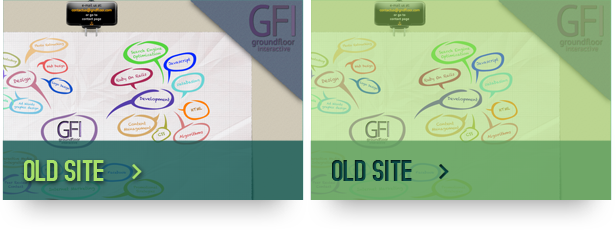
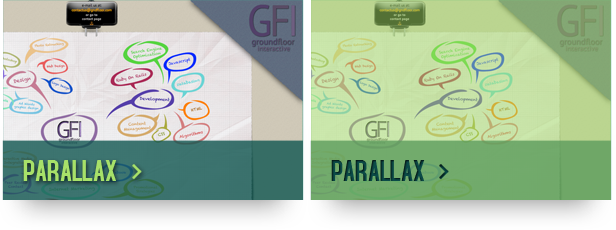
location back button

Changed region(s): [[0.5244, 0.6696, 0.7094, 0.7913], [0.0308, 0.6696, 0.2159, 0.7913]]

diff --git a/app/assets/stylesheets/index.sass b/app/assets/stylesheets/index.sass
@@ -8,6 +8,16 @@
         height: 500px
 
     #info
+        h2
+            color: #61E191
+
+            font:
+                size: 53px
+        h3
+            font:
+                size: 36px
+            color: #a7e169
+            
         padding:
             bottom: 10px
         overflow: auto
@@ -27,6 +37,11 @@
                 background-position: image-width($path)/2
 
         #recentWorks
+            h2
+                color: #61E191
+
+                font:
+                    size: 53px
             margin:
                 top: 50px
 
@@ -35,6 +50,7 @@
                 margin:
                     top: 30px
                     left: 22px
+            
 
                 //The images
                 div
@@ -82,6 +98,7 @@
             padding:
                 left: 10px
                 right: 10px
+            text-decoration: none
 
             height: 320px
             //background:
@@ -119,7 +136,11 @@
                     
                     
             #serviceHead
-                h1
+                h2
+                    color: #61E191
+
+                    font:
+                        size: 53px
                     float: left
                     line-height: 70px
                     padding:
@@ -130,9 +151,10 @@
                 height: 100px
                     
             #serviceLink
-                h3
+                h4
                     padding: 10px
                     color: #b5e169
+                    text-decoration: none
                     
                 float: right
                 width: 18%
@@ -142,12 +164,19 @@
                 background: 
                     color: #29bdb5
                 cursor: pointer
+                text-decoration: none
+                
+                a
+                    text-decoration: none
 
                 &:hover
-                    h3
+                    h4
                         color: #29bdb5
                         
                     background:
                         color: #b5e169
+                    text-decoration: none
+                    
+                
                     
                     

diff --git a/app/assets/stylesheets/services.sass b/app/assets/stylesheets/services.sass
@@ -1,0 +1,104 @@
+#servicePage
+    h2
+        line-height: 35px
+    margin:
+        top: 50px
+        
+
+
+
+#ourServices
+    margin:
+        top: 30px
+        bottom: 30px
+
+    //All the block descriptions next to each other
+    #desc
+        h1
+            line-height: 70px
+            padding:
+                top: 10px
+                left: 10px
+        width: 980px
+
+        margin:
+            top: 30px
+            left: auto
+            right: auto
+
+        padding:
+            left: 10px
+            right: 10px
+
+        height: 320px
+        //background:
+            //color: #373738
+
+        #block
+            background: image-url('gfi/blockrightborder.png')
+
+            width: 205px
+            float: left
+            padding:
+                left: 20px
+                right: 20px
+
+            p
+                margin-top: 20px
+
+            h2
+                line-height: 20px
+                margin-top: 20px
+
+        #blockTwo
+            width: 205px
+            float: left
+            padding:
+                left: 20px
+                right: 20px
+
+            p
+                margin-top: 20px
+
+            h2
+                line-height: 20px
+                margin-top: 20px
+
+
+        #serviceHead
+            h2
+                color: #61E191
+
+                font:
+                    size: 53px
+                float: left
+                line-height: 70px
+                padding:
+                    top: 20px
+                    left: 25px
+                font-size: 57px
+
+            height: 100px
+
+        #serviceLink
+            h4
+                padding: 10px
+                color: #b5e169
+
+            float: right
+            width: 18%
+            margin: 
+                top: 20px
+                right: 15px
+            background: 
+                color: #29bdb5
+            cursor: pointer
+
+            &:hover
+                h4
+                    color: #29bdb5
+
+                background:
+                    color: #b5e169
+
+

diff --git a/app/assets/stylesheets/test.scss b/app/assets/stylesheets/test.scss
@@ -24,6 +24,42 @@
 	margin-right: auto;
 }
 
+#backToLink {
+    h3 {
+        color: #a7e169;
+        text-decoration: none;
+        font-size: 28px;
+    }
+    text-decoration: none;
+    padding-left: 25px;
+    float: right;
+    margin-top: 10px;
+	
+	&:hover {
+        h3 {
+            color: #61e191;
+            text-decoration: none;
+        }
+    &:visited {
+        text-decoration: none;
+    }
+    }
+	
+	
+    $path: 'arrowforlinks.png';
+    
+    height: image-height($path);
+    width: image-width($path)/2-30px;
+    background: image-url($path);
+    
+    &:hover {
+        background-position: image-width($path)/2;
+    }
+    &:visited {
+        text-decoration: none;
+    }
+}
+
 #happy {
     h2{
     	color: #467373;

diff --git a/app/assets/stylesheets/layout.sass b/app/assets/stylesheets/layout.sass
@@ -8,7 +8,7 @@ body
     background: image-url('gfi/designtile2.png')
     color: white
 
-h1, h2, h2, h3
+h1, h2, h2, h3, h4
     font:
         family: 'Accidental Presidency', 'MS Sans Serif'
         weight: bold
@@ -27,12 +27,20 @@ h2
 h3
     font:
         size: 23px
+        
+h4
+    font-size: 24px
+    color: #a7e169
+
 
 p
     font:
         size: 20px
         family: "PT Sans", sans-serif
     line-height: 25px
+    
+a
+    text-decoration: none
 ////////////////////////////////////////////////////////////
 
 //Classes//////////////////////////////////////////////////

diff --git a/app/assets/stylesheets/portfolio.sass b/app/assets/stylesheets/portfolio.sass
@@ -38,6 +38,17 @@
     
     &:hover
         background-position: image-width($path)/2
+        
+#vtSurfPort
+    float: left
+    $path: 'gfi/portfolio/vtsurf/vtsurf.png'
+
+    height: image-height($path)
+    width: image-width($path)/2
+    background: image-url($path)
+
+    &:hover
+        background-position: image-width($path)/2
 
 #oldSite
     float: left
@@ -64,6 +75,7 @@
         bottom: 10px
     margin:
         left: 10px
+        top: 30px
     background: 
         color: #29bdb5
     cursor: pointer

diff --git a/app/assets/stylesheets/about.sass b/app/assets/stylesheets/about.sass
@@ -1,3 +1,5 @@
+@import 'layout'
+
 #aboutUs
     h3
         line-height: 35px

diff --git a/config/routes.rb b/config/routes.rb
@@ -9,7 +9,8 @@ GFWebsite3::Application.routes.draw do
   match 'portfolio/tai' => 'application#tai'
   match 'portfolio/nui' => 'application#nui'
   match 'portfolio/drexel-teacher-panel' => 'application#drexel-teacher-panel'
-  match 'portfolio/old-site' => 'application#old-site'
+  match 'portfolio/parallax-site' => 'application#parallax-site'
+  match 'portfolio/vt-surf-club' => 'application#vt-surf-club'
   match 'services' => 'application#services'
   match 'blog' => 'application#blog'
   match 'contact' => 'application#contact'
